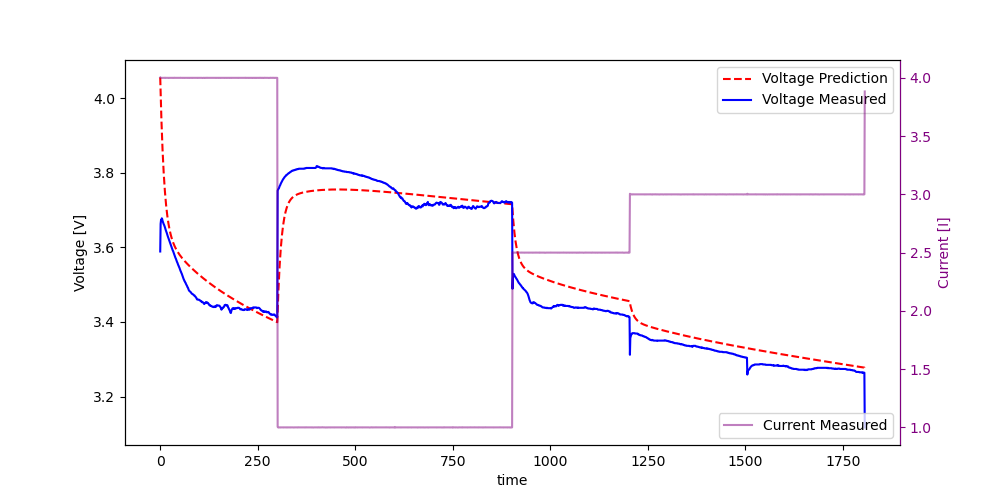
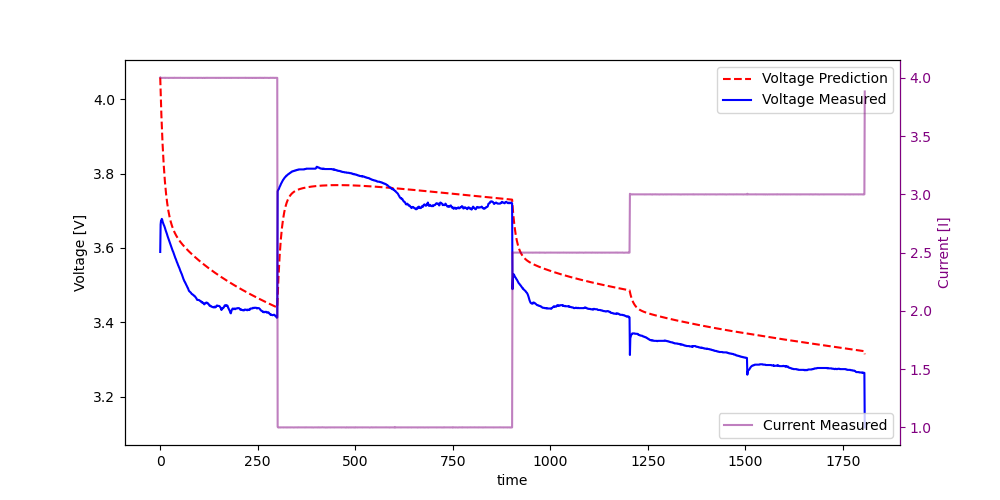
Working SOC-H training reasonable results

diff --git a/torch/train_initial_conditions.py b/torch/train_initial_conditions.py
@@ -5,6 +5,7 @@ import torch.optim as optim
 import matplotlib.pyplot as plt
 from torch.utils.data import DataLoader, TensorDataset
 from battery_data import getDischargeMultipleBatteries
+import sys
 import time
 #from BatteryRNNCell_mlp import BatteryRNN
 from model import get_model
@@ -13,18 +14,22 @@ DEVICE =torch.device("cpu")
 EXPERIMENT = False #Compares and plots watm-start vs random initialization
 NUM_EPOCHS = 1001
 NUM_CHECK = 1 # Between 1 and 6 .How many batteries do you want to evaluate
-Validate = True
+battery_num = [1,2,3,4,5,6,7,8,9,10,11,12]
+Validate = False
+Validate_one = True
 ###### FOR REFERENCE : DATA INGESTION STARTS HERE ##########
 def get_data_tensor(data_dict, max_idx_to_use, max_size):
     inputs = None
     target = None
-
+    dummy = []
     for k, v in data_dict.items():
+        print("k is ",k) # Battery Number track
         for i, d in enumerate(v[1, :max_idx_to_use]):
             prep_inp = np.full(max_size, np.nan)
             prep_target = np.full(max_size, np.nan)
             prep_inp[:len(d)] = d   # Current Sequence
             prep_target[:len(v[0, :][i])] = v[0, :][i]  # Voltage sequence
+            dummy.append(k)
             if inputs is None:
                 inputs = prep_inp
                 target = prep_target
@@ -34,7 +39,7 @@ def get_data_tensor(data_dict, max_idx_to_use, max_size):
     inputs_array = np.array(inputs)
     target_array = np.array(target)
 
-   
+    #print("I see the batteries as ",dummy)
     #inputs_tensor = torch.tensor(inputs_array, dtype=torch.float32)
     #target_tensor = torch.tensor(target_array, dtype=torch.float32)
 
@@ -51,7 +56,7 @@ inputs_array, target_array = get_data_tensor(data_RW, max_idx_to_use, max_size)
 inputs_array = inputs_array[:,:,np.newaxis]
 time_window_size = inputs_array.shape[1]
 BATCH_SIZE = inputs_array.shape[0]
-
+#sys.exit()
 # move timesteps with earlier EOD  --- This move aligns the sequence lengths of the discharge sequences
 # Batteries which discharge earlier are shifted such that all discharges happen simultaneously.
 # Assume these batteries are drawing 0 current till that time .
@@ -70,93 +75,122 @@ for row in np.argwhere((target_array<EOD) | (np.isnan(target_array))):
         target_shiffed[row[0]][time_window_size-row[1]:] = target_array[row[0]][:row[1]]
 #dataset = TensorDataset(inputs_tensor.unsqueeze(-1), target_tensor.unsqueeze(-1))
 #train_loader = DataLoader(dataset, batch_size=BATCH_SIZE, shuffle=True)
-val_idx = np.linspace(0,35,6,dtype=int)
-#val_idx = np.array([0])
-train_idx = [i for i in np.arange(0,36) if i not in val_idx]
-#train_idx = [0]
-#train_idx = np.array([1])
-###### FOR REFERENCE : DATA INGESTION ENDS HERE ##########
-        
-###### FOR REFERENCE : TRAINING STARTS HERE #########
-        
-# Create the MLP model, optimizer, and criterion
-mlp = get_model(dt=dt, mlp=True, share_q_r=False, stateful=True,mlp_trainable=False).to(DEVICE)
-optimizer = optim.Adam(mlp.parameters(), lr=5e-3)
-criterion = nn.MSELoss().to(DEVICE)
-param_count = sum(p.numel() for p in mlp.parameters() if p.requires_grad)
-print("Total number of trainable parameters are ",param_count)
-# Prepare data
-#X = np.linspace(0.0, 1.0, 100).reshape(-1, 1).astype(np.float32)
-#Y = np.hstack([np.linspace(0.85, -0.2, 90), np.linspace(-0.25, -0.8, 10)]).reshape(-1, 1).astype(np.float32)
-X = inputs_shiffed[train_idx,:,:]
-Y = target_shiffed[train_idx,:,np.newaxis]
-# Convert data to PyTorch tensors
-X_tensor = torch.from_numpy(X).to(DEVICE)
-Y_tensor = torch.from_numpy(Y).to(DEVICE)
+for battery in battery_num:
+    print("Fixing bias for Battery Number ",battery)
+    start = (battery-1)*36
+    end = battery*36
+    val_idx = np.linspace(start,end-1,6,dtype=int)
+    #val_idx = np.array([0])
+    train_idx = [i for i in np.arange(start,end) if i not in val_idx]
+    #train_idx = [0]
+    #train_idx = np.array([1])
+    ###### FOR REFERENCE : DATA INGESTION ENDS HERE ##########
+            
+    ###### FOR REFERENCE : TRAINING STARTS HERE #########
+            
+    # Create the MLP model, optimizer, and criterion
+    mlp = get_model(dt=dt, mlp=True, share_q_r=False, stateful=True,mlp_trainable=False).to(DEVICE)
+    optimizer = optim.Adam(mlp.parameters(), lr=5e-3)
+    criterion = nn.MSELoss().to(DEVICE)
+    param_count = sum(p.numel() for p in mlp.parameters() if p.requires_grad)
+    print("Total number of trainable parameters are ",param_count)
+    # Prepare data
+    #X = np.linspace(0.0, 1.0, 100).reshape(-1, 1).astype(np.float32)
+    #Y = np.hstack([np.linspace(0.85, -0.2, 90), np.linspace(-0.25, -0.8, 10)]).reshape(-1, 1).astype(np.float32)
+    X = inputs_shiffed[train_idx,:,:]
+    Y = target_shiffed[train_idx,:,np.newaxis]
+    # Convert data to PyTorch tensors
+    X_tensor = torch.from_numpy(X).to(DEVICE)
+    Y_tensor = torch.from_numpy(Y).to(DEVICE)
 
-# Create PyTorch Dataset and DataLoader
-dataset = TensorDataset(X_tensor, Y_tensor)
-data_loader = DataLoader(dataset, batch_size=30, shuffle=True) #TODO : Make it 30 again
-print("I am loading ",len(data_loader))
-# Learning rate scheduler
-#scheduler = optim.lr_scheduler.LambdaLR(optimizer, lambda epoch: 1 if epoch < 800 else (0.5 if epoch < 1100 else (0.25 if epoch < 2200 else 0.125)))
-untrained_parameter_value = [mlp.cell.qMax.data.item(),mlp.cell.Ro.data.item()]
-print("UnTrained Parameter Value:", untrained_parameter_value)
-# Training loop
-start = time.time()
-num_epochs = NUM_EPOCHS
-loss_warm_start = []
-#optimizer = optim.Adam(mlp.parameters(), lr=0.005)
-for epoch in range(num_epochs):
-    mlp.train()
-    total_loss = 0.0
-    #print("Epochs are ",epoch)
-    for inputs, targets in data_loader:
-        inputs.to(DEVICE)
-        targets.to(DEVICE)
-        # if torch.cuda.is_available():
-        #     inputs = inputs.cuda()
-        #     targets = targets.cuda()
+    # Create PyTorch Dataset and DataLoader
+    dataset = TensorDataset(X_tensor, Y_tensor)
+    data_loader = DataLoader(dataset, batch_size=30, shuffle=True) #TODO : Make it 30 again
+    print("I am loading ",len(data_loader))
+    # Learning rate scheduler
+    #scheduler = optim.lr_scheduler.LambdaLR(optimizer, lambda epoch: 1 if epoch < 800 else (0.5 if epoch < 1100 else (0.25 if epoch < 2200 else 0.125)))
+    untrained_parameter_value = [mlp.cell.qMax.data.item(),mlp.cell.Ro.data.item()]
+    print("UnTrained Parameter Value:", untrained_parameter_value)
+    # Training loop
+    start = time.time()
+    num_epochs = NUM_EPOCHS
+    loss_warm_start = []
+    #optimizer = optim.Adam(mlp.parameters(), lr=0.005)
+    for epoch in range(num_epochs):
+        mlp.train()
+        total_loss = 0.0
+        #print("Epochs are ",epoch)
+        for inputs, targets in data_loader:
+            inputs.to(DEVICE)
+            targets.to(DEVICE)
+            # if torch.cuda.is_available():
+            #     inputs = inputs.cuda()
+            #     targets = targets.cuda()
 
-        optimizer.zero_grad()
-        # Forward pass
-        outputs = mlp(inputs)
+            optimizer.zero_grad()
+            # Forward pass
+            outputs = mlp(inputs)
 
-        # Compute loss
-        loss = criterion(outputs, targets)
+            # Compute loss
+            loss = criterion(outputs, targets)
 
-        # Backpropagation
-        loss.backward()
-        # torch.nn.utils.clip_grad_norm_(mlp.parameters(), 1.0) #TODO: This sets gradient clipping
-        optimizer.step()
-        #scheduler.step()
-        total_loss += loss.item()
+            # Backpropagation
+            loss.backward()
+            # torch.nn.utils.clip_grad_norm_(mlp.parameters(), 1.0) #TODO: This sets gradient clipping
+            optimizer.step()
+            #scheduler.step()
+            total_loss += loss.item()
 
-    # Adjust learning rate using scheduler
-    #scheduler.step()   
+        # Adjust learning rate using scheduler
+        #scheduler.step()   
 
-    # Print epoch statistics
-    if epoch % 100 == 0:
-        loss_warm_start.append(total_loss / len(data_loader))
-        print(f"Epoch {epoch}, Loss: {total_loss / len(data_loader)}, Time : {time.time()-start}")
-        for param_group in optimizer.param_groups:
-            current_learning_rate = param_group['lr']
-            print("Current Learning Rate:", current_learning_rate)
+        # Print epoch statistics
+        if epoch % 100 == 0:
+            loss_warm_start.append(total_loss / len(data_loader))
+            print(f"Epoch {epoch}, Loss: {total_loss / len(data_loader)}, Time : {time.time()-start}")
+            for param_group in optimizer.param_groups:
+                current_learning_rate = param_group['lr']
+                print("Current Learning Rate:", current_learning_rate)
 
-# Save model weights
-torch.save(mlp.state_dict(), 'torch_train/mlp_trained_weights_bias_correction.pth')
-trained_parameter_value = [mlp.cell.qMax.data.item(),mlp.cell.Ro.data.item()]
-print("Trained Parameter Value:", trained_parameter_value)
-# Plot predictions
-#mlp.eval()
-#with torch.no_grad():
-#    pred = mlp(X_tensor).cpu().numpy()
+    # Save model weights
+    torch.save(mlp.state_dict(), f'torch_train/mlp_trained_weights_bias_correction_{battery}.pth')
+    trained_parameter_value = [mlp.cell.qMax.data.item(),mlp.cell.Ro.data.item()]
+    print("Trained Parameter Value:", trained_parameter_value)
+    if Validate_one:
+        mlp.eval()
+        # Time for the test set
+        X = inputs_shiffed[val_idx,:,:]
+        # For confidential reasons
+        shape_X = np.shape(X)
+        print(shape_X)
 
-#plt.plot(X, Y, color='gray')
-#plt.plot(X, pred)
-#plt.grid()
-#plt.show()
+        Y = target_shiffed[val_idx,:,np.newaxis]  
+        X_tensor = torch.from_numpy(X).to(DEVICE)
+        Y_tensor = torch.from_numpy(Y).to(DEVICE)
+        with torch.no_grad():
+            pred = mlp(X_tensor).cpu().numpy()
 
+        #plt.plot(X, Y, color='gray')
+        print("Predictions have shape ",pred.shape)
+        for i in range(NUM_CHECK):
+            plt.plot(pred[i,:,0],linestyle='dashed')
+            plt.plot(Y_tensor[i,:,0])
+        plt.ylabel('Voltage(V)')
+        plt.grid()
+
+        plt.xlabel('Time')
+        plt.savefig(f'figures/predictionvsreality_biascorrected_{battery}.png')
+        #plt.show()
+    # Plot predictions
+    #mlp.eval()
+    #with torch.no_grad():
+    #    pred = mlp(X_tensor).cpu().numpy()
+
+    #plt.plot(X, Y, color='gray')
+    #plt.plot(X, pred)
+    #plt.grid()
+    #plt.show()
+plt.show()
 
 
 

diff --git a/TF/train_mlp.py b/TF/train_mlp.py
@@ -4,7 +4,7 @@ from time import time
 import matplotlib
 import matplotlib.pyplot as plt
 import tensorflow as tf
-
+import sys
 from model import get_model
 
 from battery_data import getDischargeMultipleBatteries
@@ -25,7 +25,10 @@ max_idx_to_use = 3
 max_size = np.max([ v[0,0].shape[0] for k,v in data_RW.items() ])
 
 dt = np.diff(data_RW[1][2,0])[1]
-
+#print("Time step is ",data_RW[1][2,0])
+for keys in data_RW:
+    print(keys)
+sys.exit()
 inputs = None
 target = None
 #TODO : Readout the dataset

diff --git a/torch/train_mlp.py b/torch/train_mlp.py
@@ -11,7 +11,7 @@ from model import get_model
 #DEVICE = torch.device("cuda" if torch.cuda.is_available() else "cpu")
 DEVICE =torch.device("cpu")
 EXPERIMENT = False #Compares and plots watm-start vs random initialization
-NUM_EPOCHS = 1001
+NUM_EPOCHS = 3001
 NUM_CHECK = 1 # Between 1 and 6 .How many batteries do you want to evaluate
 Validate = True
 ###### FOR REFERENCE : DATA INGESTION STARTS HERE ##########

diff --git a/TF/explore_aged_data.py b/TF/explore_aged_data.py
@@ -62,7 +62,7 @@ inputs = np.hstack([inputs, inputs[:, -SIMULATION_OVER_STEPS:]])
 time_window_size = inputs_shiffed.shape[1]
 
 
-checkpoint_filepath = './training/cp_mlp_save4.ckpt'
+checkpoint_filepath = './training/cp_mlp.ckpt'
 
 base_model = get_model(batch_input_shape=(36,1,1), dt=dt, mlp=True, share_q_r=False)
 base_model.load_weights(checkpoint_filepath)
